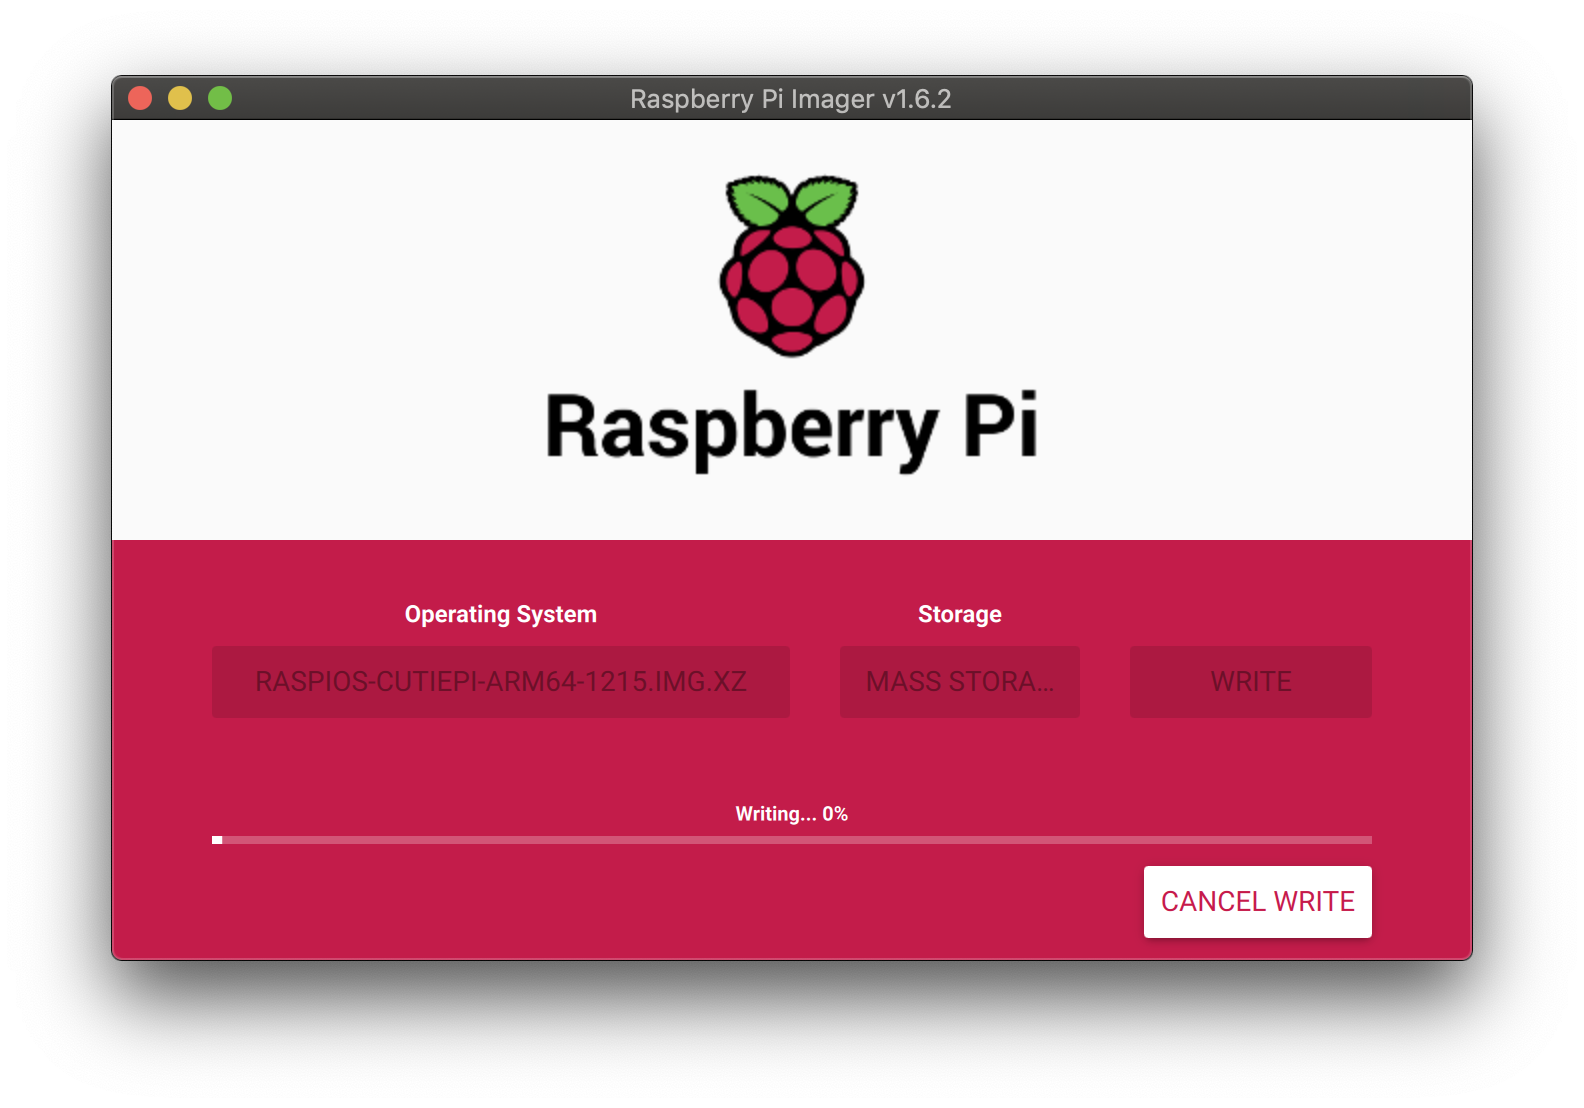
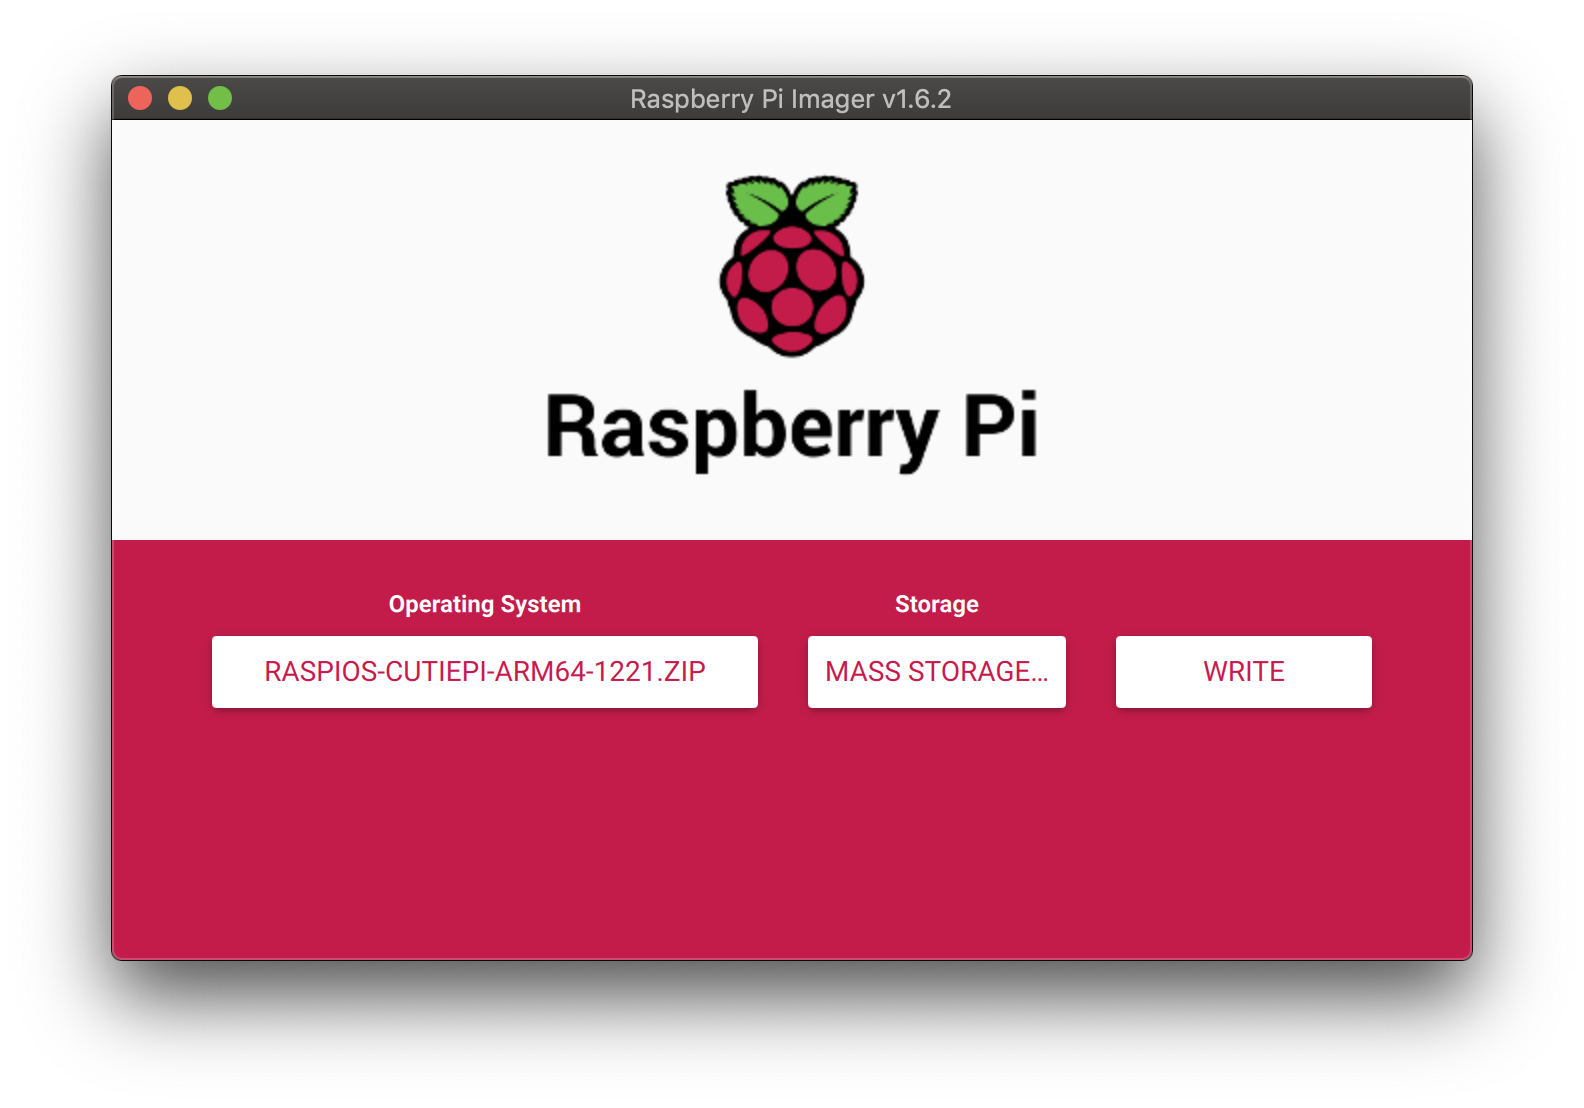
Update docs

Changed region(s): [[0.1237, 0.5217, 0.8662, 0.6444], [0.1237, 0.7058, 0.8662, 0.8592]]

diff --git a/OSPortingGuide.md b/OSPortingGuide.md
@@ -1,49 +1,52 @@
 ## OS Porting Guide 
 
+## How to rebuild the CutiePi image
+
+The prebuilt images are generated using the official tool [pi-gen](https://github.com/RPi-Distro/pi-gen), you can find the needed files for CutiePi here [https://github.com/cutiepi-io/pi-gen_stage4.5-cutiepi](https://github.com/cutiepi-io/pi-gen_stage4.5-cutiepi) 
+
+The build instructions is in the repository's README file. 
+
+## Porting 
+
 This a detailed Raspberry Pi OS change list that includes all the modifications we've made into the system image. 
 
-Please use it as a reference for porting other OSes onto CutiePi tablet. 
+Please use it as a reference for porting other OSes onto the CutiePi tablet. 
 
 ### Drivers 
 
-You may find all the drivers and overlays in the [cutiepi-drivers](https://github.com/cutiepi-io/cutiepi-drivers) repo, the most important one is `panel-nwe080`, an out-of-tree kernel driver for the MIPI DSI display. 
+The needed display driver and overlay has been merged into Raspberry Pi's official linux tree (rpi-5.10.y branch). We kept the driver and overlay filess in in the [cutiepi-drivers](https://github.com/cutiepi-io/cutiepi-drivers) repo for reference. 
 
-We've packed it as a DKMS package and preinstalled under:
+Two device tree overlays (for display, and gyro) needed: 
 
-    /usr/src/panel-nwe080-1.0 
+    /boot/overlays/cutiepi-panel.dtbo
+    /boot/overlays/mpu6050-i2c5.dtbo
 
 ### `/boot/config.txt`
 
-    # SPI needs to be commented out 
-    #dtparam=spi=on 
+    [cm4]
+    # use full kms 
+    dtoverlay=vc4-kms-v3d
 
-    [i4]
-    # USB host mode
-    dtoverlay=dwc2,dr_mode=host
+    arm_64bit=1
+    otg_mode=1
+    avoid_warnings=2
 
-    # WiFi 
-    dtparam=ant1
+    # for display 
+    dtparam=i2c_arm=on
+    dtoverlay=cutiepi-panel
 
-    # graphic
-    dtoverlay=vc4-kms-v3d-pi4
-
-    # MIPI DSI display 
-    dtoverlay=panel-nwe080
-
-    # touch screen
-    dtoverlay=i2c6
-    dtoverlay=cutiepi_touch
-
-    # MCU reading (ttyS0)
+    # for MCU
     enable_uart=1
     dtoverlay=uart1
 
-    # Gyroscope 
+    # for gyro 
     dtoverlay=i2c5,pins_10_11
+    dtoverlay=mpu6050-i2c5,interrupt=27
 
-    # Camera (with dt-blob.bin)
+    # for camera 
     start_x=1
     gpu_mem=128
+    dtoverlay=ov5647
 
 ### `/boot/cmdline.txt`
 
@@ -53,37 +56,62 @@ The parameter `console=ttyS0,115200` was removed in order to enable MCU UART rea
 
 Following packages has been preinstalled in the image: 
 
-    sudo apt install cmst connman neofetch cpufrequtils dkms \
-        raspberrypi-kernel-headers cmake clang libpulse-mainloop-glib0 
+    sudo apt install cmst connman neofetch cpufrequtils iio-sensor-proxy \
+    libqt5serialport5 libqt5multimedia5-plugins qml-module-qt-labs-folderlistmodel \
+    qml-module-qt-labs-platform qml-module-qt-labs-settings qml-module-qtgraphicaleffects \
+    qml-module-qtmultimedia qml-module-qtquick-controls2 qml-module-qtquick-layouts \
+    qml-module-qtquick-localstorage qml-module-qtquick-templates2 qml-module-qtquick-window2 \
+    qml-module-qtquick2 qml-module-qtwebengine qml-module-qtquick-virtualkeyboard \
+    libqt5hunspellinputmethod5 qtvirtualkeyboard-plugin libqt5virtualkeyboard5
 
 ### User configuration 
 
-	sudo gpasswd -a pi render
+    sudo gpasswd -a pi render
     sudo gpasswd -a pi dialout
+    sudo gpasswd -a pi input
 
-### Desktop integration 
+A gsettings file was added to set the default screen orientation lock: 
 
-A binary [cutoff](https://github.com/cutiepi-io/cutiepi-middleware/tree/master/cutoff) was added so systemd cuts the power before executing the actual system halt/poweroff: 
+    .config/dconf/user
+
+This can be set manually: 
+`gsettings set org.gnome.settings-daemon.peripherals.touchscreen orientation-lock true` 
+
+### System configuration 
+
+A binary [cutoff](https://github.com/cutiepi-io/cutiepi-middleware/tree/master/cutoff) was added so systemd cuts the power while executing the actual system halt/poweroff: 
 
     /usr/lib/systemd/system-shutdown/cutoff 
 
-Following helper scripts and the [systray](https://github.com/cutiepi-io/cutiepi-shell/tree/master/systray) implementation were added: 
+A [udev rule](https://github.com/cutiepi-io/pi-gen_stage4.5-cutiepi/blob/main/stage4.5-cutiepi/01-tweaks/files/backlight.rules) was added to grant backlight brightness setting permission: 
 
-    /usr/local/bin/cutiepi-systray
+    /etc/udev/rules.d/backlight.rules
 
-    # screen rotation script using xrandr 
-    /usr/local/bin/rotate-screen
+And some configurations: 
 
-    # script for setting default UI 
-    /usr/local/bin/set-cutiepi-shell-default.sh
-    /usr/local/bin/set-lightdm-default.sh
+    # Changed parameter to work with connman (the connection mananger) 
+    /lib/systemd/system/wpa_supplicant.service 
 
-    /usr/local/bin/start-cutiepi-systray.sh
-    /usr/local/bin/start-lightdm.sh
+    # this was removed: 
+    /etc/wpa_supplicant/wpa_supplicant.conf
 
-    /etc/xdg/autostart/cutiepi-systray.desktop
+    # changed default value 
+    /etc/security/limits.conf
+    /etc/sysctl.conf
 
-And some configurations
+### Desktop integration 
+
+The [cutiepi-mcuproxy](https://github.com/cutiepi-io/cutiepi-middleware/tree/master/mcu-proxy) and the [cutiepi-shell](https://github.com/cutiepi-io/cutiepi-shell/tree/master/app) launcher were added: 
+
+    # binary 
+    /usr/local/bin/cutiepi-shell
+    /usr/local/bin/cutiepi-mcuproxy
+
+    # autostart desktop files
+    /etc/xdg/autostart/cutiepi-shell.desktop
+    /etc/xdg/autostart/cutiepi-mcuproxy.desktop
+
+And some configurations: 
 
     # disable dimming 
     /etc/xdg/lxsession/LXDE-pi/autostart 
@@ -91,21 +119,27 @@ And some configurations
     # remove trash bin 
     /etc/xdg/pcmanfm/LXDE-pi/desktop-items-0.conf
 
-    /etc/security/limits.conf
-    /etc/sysctl.conf
+### QML libraries 
+
+Following QML libraries ([libconnman-qt](https://git.sailfishos.org/mer-core/libconnman-qt), [nemo-qml-plugin-dbus](https://github.com/sailfishos/nemo-qml-plugin-dbus.git), [yat](https://github.com/jorgen/yat), and [process](https://github.com/cutiepi-io/cutiepi-middleware/tree/master/process)) were added: 
+
+    # For connection manager
+    /usr/lib/aarch64-linux-gnu/libconnman-qt5.so* 
+    /usr/lib/aarch64-linux-gnu/qt5/qml/MeeGo/Connman/
+
+    # For DBus 
+    /usr/lib/aarch64-linux-gnu/libnemodbus.so*
+    /usr/lib/aarch64-linux-gnu/qt5/qml/Nemo/DBus/
+
+    # For system command 
+    /usr/lib/aarch64-linux-gnu/qt5/qml/Process/
+
+    # For the terminal emulator 
+    /usr/lib/aarch64-linux-gnu/qt5/qml/Yat/
 
 ### CutiePi shell  
 
-    # add /usr/local/lib/aarch64-linux-gnu/ and /opt/qt5/lib
-    /etc/ld.so.conf.d/libc.conf
-
-    /lib/systemd/system/wpa_supplicant.service 
-
-    # this is removed: 
-    /etc/wpa_supplicant/wpa_supplicant.conf
-    
-    # prebuilt Qt5.15.2
-    /opt/qt5 
+The [cutiepi-shell](https://github.com/cutiepi-io/cutiepi-shell/blob/master/opt/cutiepi-shell) folder, along with other configurations, was added: 
 
     # CutiePi shell 
     /opt/cutiepi-shell 
@@ -113,13 +147,3 @@ And some configurations
     # default wallpaper
     /usr/share/rpd-wallpaper/boombox.png
     /usr/share/rpd-wallpaper/cutiepi*.png
-
-    /lib/systemd/system/cutiepi-shell.service
-
-### libcamera 
-
-    /usr/local/share/libcamera/
-    /usr/local/libexec/libcamera/
-    /usr/local/lib/aarch64-linux-gnu/libcamera*
-    # copy from /usr/local/lib/aarch64-linux-gnu/gstreamer-1.0/libgstlibcamera.so
-    /usr/lib/aarch64-linux-gnu/gstreamer-1.0/libgstlibcamera.so 

diff --git a/README.md b/README.md
@@ -14,22 +14,22 @@ The tablet also has a built-in gyroscope, a rear-view camera, a microphone and a
 
 ![](screenshots/cutiepi-manual-instruction.png)
 
-### Turning CutiePi On / Off
+### 🔋 Turning CutiePi On / Off
 
-- Power On: Press and hold for 3s 
+- Power On: Press and hold for `3s` 
 - Sleep/Wake: Short press
-- Force Shutdown: Press and hold for 10s 
+- Force Shutdown: Press and hold for `10s`
 
 Please make sure the display is completely turned off after it was shutting down, otherwise it may drain the battery. 
 
-### Mind the Heat 
+### ⚠ Mind the Heat 
 
 Do not be alarmed if the back of the CutiePi gets hot: 
 
 - This is by design. This means that the heat sink is doing its job 
 - If you wish, you may cool down CutiePi by by adjusting the `Power Mode` in the Settings
 
-### In Case of Software Upgrade 
+### 💾 In Case of Software Upgrade 
 
 Just like Raspberry Pi, the CutiePi's OS runs on a micro SD card: 
 

diff --git a/SystemFlashingGuide.md b/SystemFlashingGuide.md
@@ -4,10 +4,10 @@
 
 Currently there are two variants of system image, both in beta stage: 
 
-- [Raspberry Pi OS with CutiePi shell](https://drive.google.com/file/d/1BfXrdC2TshKuaOj5p7D4a3c6twBfNYid)
+- [Raspberry Pi OS with CutiePi shell](https://github.com/cutiepi-io/pi-gen_stage4.5-cutiepi/releases/download/2021-12-21/raspios-cutiepi-arm64-1221.zip)
 
-        File: raspios-cutiepi-arm64-1215.img.xz (992MB)
-        SHA1: ef7d968f74b9313867cf46c839a40d899d957c53
+        File: raspios-cutiepi-arm64-1221.zip (1.2G)
+        SHA1: 53679a4098283d3c31f0fb2a739134169c1cf908
 
 - [Ubuntu Desktop 21.04](https://drive.google.com/file/d/1FnndGdWcw_qGXAdusFi8fYCWpVzwp3ci)
 
